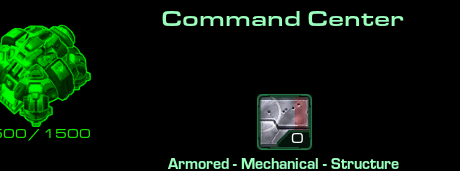
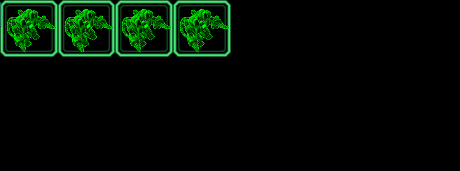
adding building availability

Changed region(s): [[0.0, 0.0, 0.8826, 0.8187], [0.5478, 0.5263, 0.7, 0.8772], [0.3652, 0.9064, 0.8826, 0.9942]]

diff --git a/UI_processor.py b/UI_processor.py
@@ -231,23 +231,31 @@ def selected_single_handle(image, selected_singles, debug = False):
         output = ''
     selected_singles[0] = output
 
-def minimap_handle(image, minimaps):
+def minimap_handle(image, minimaps, debug = False):
     minimaps[0] = image[808:1065, 25:291]
+    if debug:
+        cv2.imwrite(current_dir + "minimap.png", minimaps[0])
 
-def building_handle(image, buildings):
+def building_handle(image, buildings, debug = False):
     buildings[0] = image[850:1061, 1536:1896]
+    if debug:
+        cv2.imwrite(current_dir + "building.png", buildings[0])
 
-def selected_group_handle(image, selected_groups):
+def selected_group_handle(image, selected_groups, debug = False):
     selected_groups[0] = image[887:1058, 661:1121]
+    if debug:
+        cv2.imwrite(current_dir + "selected_group.png", selected_groups[0])
 
-def game_handle(image, games):
+def game_handle(image, games, debug = False):
     game = copy.deepcopy(image[:823, :])
     game[:41, 1490:] = 0
     game[783:, 1518:] = 0
     game[745:, :359] = 0
     games[0] = game
+    if debug:
+        cv2.imwrite(current_dir + "game.png", games[0])
 
-def extraction_handle(image, minerals, gases):
+def extraction_handle(image, minerals, gases, debug = False):
     mineral_temp = cv2.imread(str(pathlib.Path(__file__).parent.absolute()) + "\\templates\\resource_templates\\mineral.png")
     gas_temp = cv2.imread(str(pathlib.Path(__file__).parent.absolute()) + "\\templates\\resource_templates\\gas.png")
 
@@ -264,7 +272,8 @@ def extraction_handle(image, minerals, gases):
         extraction = prepare_for_matching(extraction, 130)
         extraction[:, 12] = 0
         extraction[:, 24] = 0
-        cv2.imwrite(current_dir + "mineral_extraction" + str(len(mineral_list)) + ".png", extraction)
+        if debug:
+            cv2.imwrite(current_dir + "mineral_extraction" + str(len(mineral_list)) + ".png", extraction)
         extraction = img_to_digits_extraction(extraction)
         slash = extraction.find('/')
         if slash == -1:
@@ -282,7 +291,8 @@ def extraction_handle(image, minerals, gases):
         extraction = prepare_for_matching(extraction, 130)
         extraction[:, 13] = 0
         extraction[:, 24] = 0
-        cv2.imwrite(current_dir + "gas_extraction" + str(len(gas_list)) + ".png", extraction)
+        if debug:
+            cv2.imwrite(current_dir + "gas_extraction" + str(len(gas_list)) + ".png", extraction)
         extraction = img_to_digits_extraction(extraction)
         slash = extraction.find('/')
         if slash == -1:
@@ -293,31 +303,60 @@ def extraction_handle(image, minerals, gases):
     minerals[0] = mineral_list
     gases[0] = gas_list
 
+def right_availability_handle(image, right_buttons, debug = False):
+    buildings = [None]*1
+    building_handle(image, buildings)
+    buildings = buildings[0]
+    hsv = cv2.cvtColor(buildings, cv2.COLOR_BGR2HSV)
+    hsv = hsv[:, :, 1]
+    if debug:
+        cv2.imwrite(current_dir + "right_window_availability.png", hsv)
+    rows = [[False, False, False, False, False],
+            [False, False, False, False, False],
+            [False, False, False, False, False]]
+    x = 0
+    y = 0
+    for i in range(30, 180, 74):
+        for j in range(40, 325, 71):
+            square = hsv[i-10:i+10, j-10:j+10]
+            # cv2.imwrite(current_dir + "right_window_availability" + str(y) + str(x) + ".png", square)
+            avg = square.mean()
+            if avg >= 5:
+                rows[y][x] = True
+            else:
+                rows[y][x] = False
+            x += 1
+        y += 1
+        x = 0
+    right_buttons[0] = rows
+    print(rows)
+
 # multithreaded functions -------------------------------------------------------------------------------
 
 
 class UI_processor:
     # setting [None]*1 in order to pass as pointers in threads
     image = None
-    minimap = [None]*1                  # image
-    game = [None]*1                     # image
-    building = [None]*1                 # image
-    selected_group = [None]*1           # image
-    supply_left = [None]*1              # int
-    supply_right = [None]*1             # int
-    minerals = [None]*1                 # int
-    gas = [None]*1                      # int
-    idle_workers = [None]*1             # int
-    army_units = [None]*1               # int
-    selected_single = [None]*1          # string
-    mineral_extraction_infos = [None]*1 # list of ((int, int), (int, int)) corresponding to (( nb_workers/workers_max ), ( position_x, position_y )) where position is click position to select the command center
-    gas_extraction_infos = [None]*1     # list of ((int, int), (int, int)) corresponding to (( nb_workers/workers_max ), ( position_x, position_y )) where position is click position to select the refinery
-    base_locations = []                 # list of base locations on minimap
-    resources_mask = []                 # minimap resources
-    allies_mask = []                    # minimap allies
-    enemies_mask = []                   # minimap enemies
-    enemy_starting_base = []            # enemy starting base position on the minimap, a tuple (int, int)
-    our_starting_base = []              # our starting base position on the minimap, a tuple (int, int)
+    minimap = [None]*1                       # image
+    game = [None]*1                          # image
+    building = [None]*1                      # image
+    selected_group = [None]*1                # image
+    supply_left = [None]*1                   # int
+    supply_right = [None]*1                  # int
+    minerals = [None]*1                      # int
+    gas = [None]*1                           # int
+    idle_workers = [None]*1                  # int
+    army_units = [None]*1                    # int
+    selected_single = [None]*1               # string
+    mineral_extraction_infos = [None]*1      # list of ((int, int), (int, int)) corresponding to (( nb_workers/workers_max ), ( position_x, position_y )) where position is click position to select the command center
+    gas_extraction_infos = [None]*1          # list of ((int, int), (int, int)) corresponding to (( nb_workers/workers_max ), ( position_x, position_y )) where position is click position to select the refinery
+    right_window_button_available = [None]*1 # list of list of bool
+    base_locations = []                      # list of base locations on minimap
+    resources_mask = []                      # minimap resources
+    allies_mask = []                         # minimap allies
+    enemies_mask = []                        # minimap enemies
+    enemy_starting_base = []                 # enemy starting base position on the minimap, a tuple (int, int)
+    our_starting_base = []                   # our starting base position on the minimap, a tuple (int, int)
 
 
     def __init__(self,
@@ -333,7 +372,8 @@ class UI_processor:
     get_selected_group = False,
     get_game_image = False,
     get_extraction_rate = False,
-    minimap_init_values = False): # should only be called once at game startup, this detects mineral patches, the enemy base position and our position
+    get_minimap_init_values = False,
+    get_right_window_buttons_availability = False): # should only be called once at game startup, this detects mineral patches, the enemy base position and our position
 
         if debug:
             get_supply = True
@@ -347,9 +387,10 @@ class UI_processor:
             get_selected_group = True
             get_game_image = True
             get_extraction_rate = True
-            minimap_init_values = True
+            get_minimap_init_values = True
+            get_right_window_buttons_availability = True
         
-        if minimap_init_values:
+        if get_minimap_init_values:
             get_minimap = True
 
         with mss.mss() as mss_instance:
@@ -357,7 +398,7 @@ class UI_processor:
             self.image = cv2.cvtColor(np.array(mss_instance.grab(monitor)), cv2.COLOR_BGRA2BGR)
 
         # declaring threads
-        threads = [None, None, None, None, None, None, None, None, None, None, None]
+        threads = [None, None, None, None, None, None, None, None, None, None, None, None]
         if get_supply:
             threads[0] = Thread(target=supply_handle, args=(self.image, self.supply_left, self.supply_right, debug))
         if get_mineral:
@@ -371,15 +412,17 @@ class UI_processor:
         if get_selected_single:
             threads[5] = Thread(target=selected_single_handle, args=(self.image, self.selected_single, debug))
         if get_minimap:
-            threads[6] = Thread(target=minimap_handle, args=(self.image, self.minimap))
+            threads[6] = Thread(target=minimap_handle, args=(self.image, self.minimap, debug))
         if get_building:
-            threads[7] = Thread(target=building_handle, args=(self.image, self.building))
+            threads[7] = Thread(target=building_handle, args=(self.image, self.building, debug))
         if get_selected_group:
-            threads[8] = Thread(target=selected_group_handle, args=(self.image, self.selected_group))
+            threads[8] = Thread(target=selected_group_handle, args=(self.image, self.selected_group, debug))
         if get_game_image:
-            threads[9] = Thread(target=game_handle, args=(self.image, self.game))
+            threads[9] = Thread(target=game_handle, args=(self.image, self.game, debug))
         if get_extraction_rate:
-            threads[10] = Thread(target=extraction_handle, args=(self.image, self.mineral_extraction_infos, self.gas_extraction_infos))
+            threads[10] = Thread(target=extraction_handle, args=(self.image, self.mineral_extraction_infos, self.gas_extraction_infos, debug))
+        if get_right_window_buttons_availability:
+            threads[11] = Thread(target=right_availability_handle, args=(self.image, self.right_window_button_available, debug))
         
         # running threads
         for i in threads:
@@ -404,6 +447,7 @@ class UI_processor:
         self.selected_single = self.selected_single[0]
         self.mineral_extraction_infos = self.mineral_extraction_infos[0]
         self.gas_extraction_infos = self.gas_extraction_infos[0]
+        self.right_window_button_available = self.right_window_button_available[0]
 
         if get_minimap:
             # getting resources
@@ -419,7 +463,7 @@ class UI_processor:
             self.enemies_mask = cv2.inRange(self.minimap, left, right)
 
             # finding approximate base locations and enemy base starting position
-            if minimap_init_values:
+            if get_minimap_init_values:
                 # base locations
                 kernel = np.ones((7, 7), np.uint8)
                 locations = copy.deepcopy(self.resources_mask)
@@ -458,7 +502,6 @@ class UI_processor:
                     cv2.imwrite(current_dir + "our_location.png", green_minimap)
             
             if debug:
-                cv2.imwrite(current_dir + "minimap.png", self.minimap)
                 cv2.imwrite(current_dir + "ressources.png", self.resources_mask)
                 cv2.imwrite(current_dir + "allies.png", self.allies_mask)
                 cv2.imwrite(current_dir + "enemies.png", self.enemies_mask)
@@ -473,9 +516,6 @@ class UI_processor:
             print("mineral_extraction_infos = " + str(self.mineral_extraction_infos))
             print("gas_extraction_infos =     " + str(self.gas_extraction_infos))
             print("enemy base position =      " + str(self.enemy_starting_base))
-            print("our base position =      " + str(self.our_starting_base))
-
-            cv2.imwrite(current_dir + "building.png", self.building)
-            cv2.imwrite(current_dir + "selected_group.png", self.selected_group)
-            cv2.imwrite(current_dir + "game.png", self.game)
+            print("our base position =        " + str(self.our_starting_base))
+            print("right availability =       " + str(self.right_window_button_available))
             cv2.imwrite(current_dir + "screenshot.png", self.image)

diff --git a/main.py b/main.py
@@ -4,7 +4,7 @@ from camera_view_processor import cam_processor
 import pyautogui
 
 
-# run this script then you have 4 seconds to get in a 1v1 ongoing match. It will print info and walk through the ressource patches
+# run this script then you have 4 seconds to get in a 1v1 ongoing match. It will print info.
 
 
 time.sleep(4)
@@ -19,7 +19,6 @@ start_time = time.time()
 cam_info = cam_processor(debug=True)
 print("%s sec" % (time.time() - start_time))
 
-
 '''
 # this clicks on every detected mineral patch
 for i in cam_info.mineral_patches:
@@ -27,6 +26,7 @@ for i in cam_info.mineral_patches:
     pyautogui.click()
     time.sleep(2)
 '''
+
 '''
 # this clicks on every eventual base locations
 for i in infos.base_locations:

diff --git a/4raks_example_bot.py b/4raks_example_bot.py
@@ -52,7 +52,7 @@ time.sleep(0.05)
 hotkey.put_selected_in_group(2)
 time.sleep(0.05)
 
-startup_info = UI_processor(minimap_init_values=True)
+startup_info = UI_processor(get_minimap_init_values=True)
 
 x = 100
 y = 300

diff --git a/docs/UI_processor.md b/docs/UI_processor.md
@@ -110,3 +110,10 @@ The enemy starting base position on the minimap. It is a tuple of int.
 Our starting base position on the minimap. It is a tuple of int.
 
 ![a](./docs_images/our_location.png?raw=true "a")
+
+### Building availability
+
+Tells if a building is avfailable for construction, this uses saturation values.
+
+![a](./docs_images/building.png?raw=true "a")
+![a](./docs_images/right_window_availability.png?raw=true "a")
